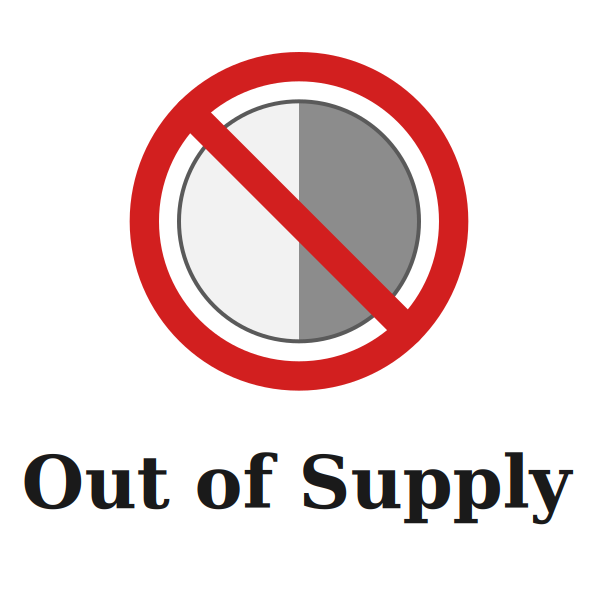
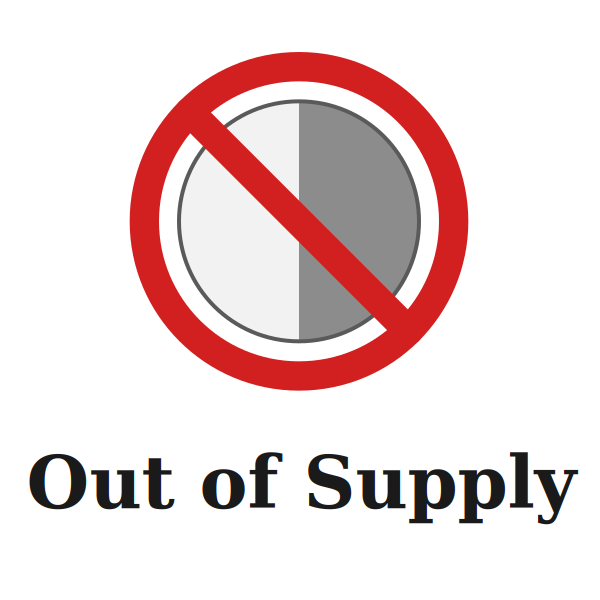
UI improves

Changed region(s): [[0.33, 0.75, 0.96, 0.87], [0.03, 0.75, 0.3, 0.87]]

diff --git a/rules.js b/rules.js
@@ -10419,6 +10419,11 @@ P.replacement_segment = {
     },
     inactive: "use replacements",
     prompt() {
+        if (L.skip) {
+            prompt("Confirm skip replacements.")
+            button("confirm")
+            return;
+        }
         var ru = L.replacable_units.filter(u => L.replacement_points[pieces[u].replacement] > 0)
         var not_used_unground = L.divisions_used <= 0 || L.replacement_points[GROUND_REP] <= 0
         var first_replacable = ru.filter(u => G.location[u] === ELIMINATED_BOX)[0]
@@ -10499,6 +10504,10 @@ P.replacement_segment = {
         }
     },
     skip() {
+        push_undo()
+        L.skip = 1
+    },
+    confirm() {
         this.done()
     },
     done() {
@@ -13909,9 +13918,6 @@ P.strategic_bombing = {
             end()
             return
         }
-        if (G.async) {
-            this.all()
-        }
     },
     inactive: "roll to strategic bombing",
     prompt() {
@@ -14510,12 +14516,16 @@ P.future_offensive = {
         log("#" + (G.active === JP ? "JJP" : "AAP") + " Future Offensive")
         var card = cards[G.future_offensive[G.active] > 0 ? G.future_offensive[G.active] : 0]
         if (card.type !== MILITARY || !event_hq_check(card)) {
-            L.pass = true
+            L.impossible = true
         }
     },
     inactive: "play future offensive card",
     prompt() {
         prompt("Play future offensive card or pass.")
+        if (L.impossible) {
+            button("pass")
+            return
+        }
         if (L.pass) {
             button("done")
         } else {
@@ -14529,6 +14539,10 @@ P.future_offensive = {
         goto("offensive_sequence")
     },
     pass() {
+        if (L.impossible) {
+            end()
+            return
+        }
         push_undo()
         log(`${side_get_log_str(G.active)} pass.`)
         L.pass = true
@@ -14949,12 +14963,16 @@ cards[find_card(JP, 16)].before_unit_activation = function () {
 }
 
 cards[find_card(JP, 17)].before_unit_activation = function () {
-    filter_activation_units((u, piece) => piece.class !== "ground" && (piece.class !== "naval" || !piece.br), JP)
+    filter_activation_units((u, piece) => piece.class !== "ground", JP)
 }
 
 cards[find_card(JP, 17)].after_unit_activation = function (u) {
     if (G.active !== JP) {
         return
+    }
+    if (G.offensive.active_units[JP].filter(u=>is_cv_unit(pieces[u])).length) {
+        call("rule_violation", {rule: SAVO_RULE})
+        return;
     }
     var service = null
     G.offensive.active_units[R].forEach(u => service = pieces[u].class)
@@ -14964,6 +14982,19 @@ cards[find_card(JP, 17)].after_unit_activation = function (u) {
         return (service === null || p_service === service) && p_service !== "ground"
     })
 }
+
+const SAVO_RULE = 0
+
+const VIOLATIONS = [
+    `Carrier units could not be activated. Check 1.3 "Naval".`
+]
+P.rule_violation = {
+    inactive: "undo wrong action",
+    prompt() {
+        prompt(VIOLATIONS[L.rule])
+    },
+}
+
 
 cards[find_card(JP, 17)].before_battle_roll = function (faction) {
     if (faction === AP || G.offensive.battle.ground_stage) {

diff --git a/js/server/events.js b/js/server/events.js
@@ -302,12 +302,16 @@ cards[find_card(JP, 16)].before_unit_activation = function () {
 }
 
 cards[find_card(JP, 17)].before_unit_activation = function () {
-    filter_activation_units((u, piece) => piece.class !== "ground" && (piece.class !== "naval" || !piece.br), JP)
+    filter_activation_units((u, piece) => piece.class !== "ground", JP)
 }
 
 cards[find_card(JP, 17)].after_unit_activation = function (u) {
     if (G.active !== JP) {
         return
+    }
+    if (G.offensive.active_units[JP].filter(u=>is_cv_unit(pieces[u])).length) {
+        call("rule_violation", {rule: SAVO_RULE})
+        return;
     }
     var service = null
     G.offensive.active_units[R].forEach(u => service = pieces[u].class)
@@ -317,6 +321,19 @@ cards[find_card(JP, 17)].after_unit_activation = function (u) {
         return (service === null || p_service === service) && p_service !== "ground"
     })
 }
+
+const SAVO_RULE = 0
+
+const VIOLATIONS = [
+    `Carrier units could not be activated. Check 1.3 "Naval".`
+]
+P.rule_violation = {
+    inactive: "undo wrong action",
+    prompt() {
+        prompt(VIOLATIONS[L.rule])
+    },
+}
+
 
 cards[find_card(JP, 17)].before_battle_roll = function (faction) {
     if (faction === AP || G.offensive.battle.ground_stage) {

diff --git a/js/server/actions.js b/js/server/actions.js
@@ -244,12 +244,16 @@ P.future_offensive = {
         log("#" + (G.active === JP ? "JJP" : "AAP") + " Future Offensive")
         var card = cards[G.future_offensive[G.active] > 0 ? G.future_offensive[G.active] : 0]
         if (card.type !== MILITARY || !event_hq_check(card)) {
-            L.pass = true
+            L.impossible = true
         }
     },
     inactive: "play future offensive card",
     prompt() {
         prompt("Play future offensive card or pass.")
+        if (L.impossible) {
+            button("pass")
+            return
+        }
         if (L.pass) {
             button("done")
         } else {
@@ -263,6 +267,10 @@ P.future_offensive = {
         goto("offensive_sequence")
     },
     pass() {
+        if (L.impossible) {
+            end()
+            return
+        }
         push_undo()
         log(`${side_get_log_str(G.active)} pass.`)
         L.pass = true

diff --git a/js/server/reinforcements.js b/js/server/reinforcements.js
@@ -337,6 +337,11 @@ P.replacement_segment = {
     },
     inactive: "use replacements",
     prompt() {
+        if (L.skip) {
+            prompt("Confirm skip replacements.")
+            button("confirm")
+            return;
+        }
         var ru = L.replacable_units.filter(u => L.replacement_points[pieces[u].replacement] > 0)
         var not_used_unground = L.divisions_used <= 0 || L.replacement_points[GROUND_REP] <= 0
         var first_replacable = ru.filter(u => G.location[u] === ELIMINATED_BOX)[0]
@@ -417,6 +422,10 @@ P.replacement_segment = {
         }
     },
     skip() {
+        push_undo()
+        L.skip = 1
+    },
+    confirm() {
         this.done()
     },
     done() {

diff --git a/play.js b/play.js
@@ -12181,7 +12181,7 @@ function on_update() {
         P[LOCAL_STATUS].on_update()
     }
 
-    action_button("play_card", "Play card")
+    action_button("play_card", "Choose card")
     action_button("to_unit", "Rebuild unit")
     action_button("roll", "Roll")
 

diff --git a/js/client/update.js b/js/client/update.js
@@ -409,7 +409,7 @@ function on_update() {
         P[LOCAL_STATUS].on_update()
     }
 
-    action_button("play_card", "Play card")
+    action_button("play_card", "Choose card")
     action_button("to_unit", "Rebuild unit")
     action_button("roll", "Roll")
 

diff --git a/js/server/cycle.js b/js/server/cycle.js
@@ -122,9 +122,6 @@ P.strategic_bombing = {
             end()
             return
         }
-        if (G.async) {
-            this.all()
-        }
     },
     inactive: "roll to strategic bombing",
     prompt() {
